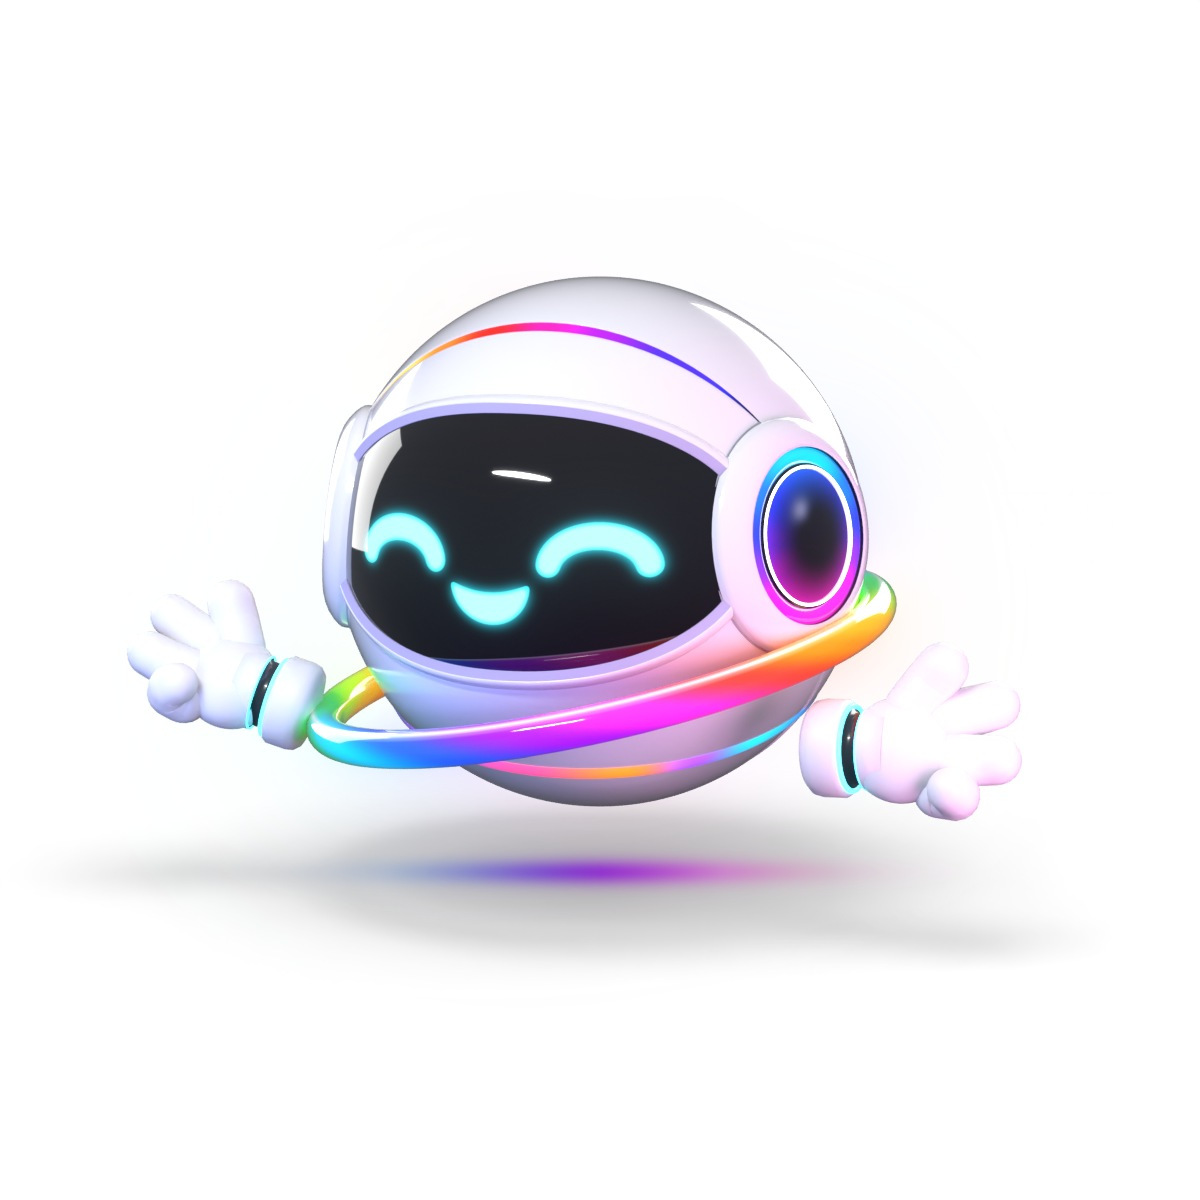
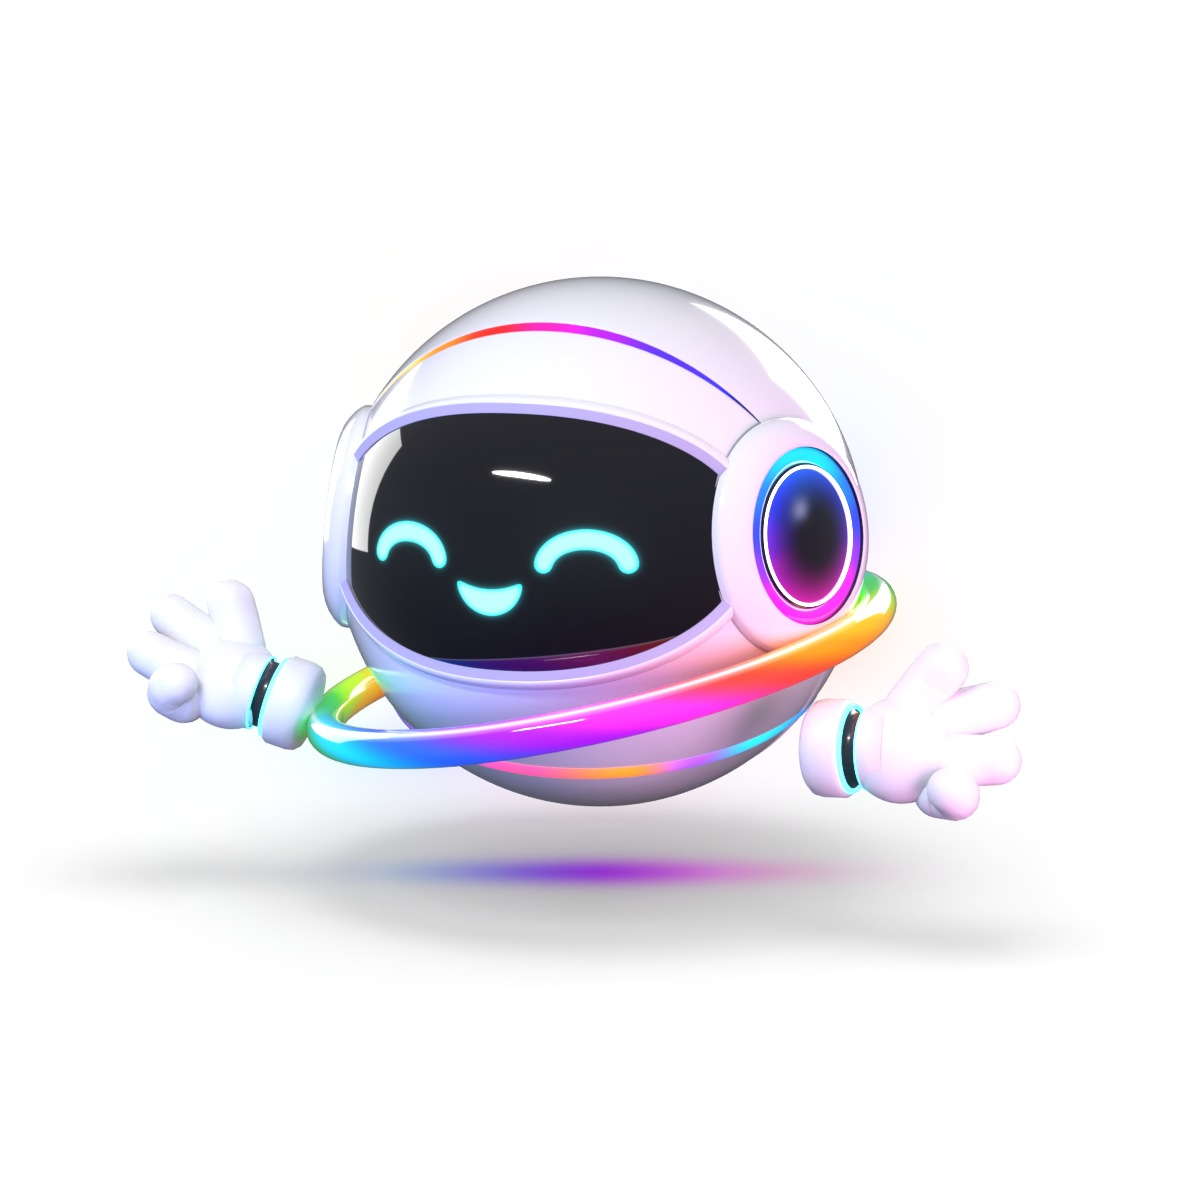
Character version 3: smaller face, thinner strokes, sharper edges
The eyes and smile are about 15% smaller, the eye strokes are thinner,
the edges are crisper and the glow round them is tighter.

Claude-Session: https://claude.ai/code/session_011BdSE2fEeiEv9ZgoYmWAPn

Changed region(s): [[0.2775, 0.4008, 0.5858, 0.5242]]

diff --git a/design/hero/character/v3/build.py b/design/hero/character/v3/build.py
@@ -412,8 +412,8 @@ def face_image(kind, blush=False):
         (a, b), (c, e) = P(x - w / 2, z + h / 2), P(x + w / 2, z - h / 2); d.rounded_rectangle((a, b, c, e), radius=r * PX * SS, outline=255, width=round(width * PX * SS))
     EX, EZ = 0.345, 0.125
     if kind == 'happy':
-        for sx in (-1, 1): arc(sx * 0.375, 0.03, 0.162, 0.115, 6, 174, 0.092, taper=0.1)   # wide, round arches, even thickness, fat round ends   # round arcs, even thickness, fat round ends that come well down
-        smile(0, -0.025, 0.3, 0.15, sag=0.035)                                                  # just under the eyes' ends
+        for sx in (-1, 1): arc(sx * 0.335, 0.035, 0.138, 0.098, 6, 174, 0.07, taper=0.1)   # wide, round arches, even thickness, fat round ends   # round arcs, even thickness, fat round ends that come well down
+        smile(0, -0.018, 0.25, 0.125, sag=0.03)                                                  # just under the eyes' ends
     elif kind == 'thinking':
         disc(-0.29, EZ, 0.075); disc(0.29, EZ, 0.075)
         arc(-0.31, EZ + 0.06, 0.11, 0.06, 70, 130, 0.035); arc(0.29, EZ + 0.08, 0.1, 0.07, 30, 150, 0.035)
@@ -439,8 +439,8 @@ def face_image(kind, blush=False):
                     x, z = cx + gx * 0.015 + (0.0075 if gz % 2 else 0), cz + gz * 0.013
                     if ((x - cx) / 0.085) ** 2 + ((z - cz) / 0.055) ** 2 <= 1: disc(x, z, 0.0042, fill=150)
     im = im.resize((TW, TH), Image.LANCZOS)
-    im = im.filter(ImageFilter.GaussianBlur(7)).point(lambda v: 255 if v > 127 else 0).filter(ImageFilter.GaussianBlur(1.3))   # every corner softly rounded
-    core = im.filter(ImageFilter.GaussianBlur(9)).point(lambda v: 255 if v > 200 else int(v * v / 200 / 1.3)).filter(ImageFilter.GaussianBlur(4)); glow = im.filter(ImageFilter.GaussianBlur(22)).point(lambda v: min(255, int(v * 1.4)))   # a soft, wide glow round the face
+    im = im.filter(ImageFilter.GaussianBlur(7)).point(lambda v: 255 if v > 127 else 0).filter(ImageFilter.GaussianBlur(0.7))   # every corner softly rounded
+    core = im.filter(ImageFilter.GaussianBlur(9)).point(lambda v: 255 if v > 200 else int(v * v / 200 / 1.3)).filter(ImageFilter.GaussianBlur(4)); glow = im.filter(ImageFilter.GaussianBlur(13)).point(lambda v: min(255, int(v * 0.95)))   # a soft, wide glow round the face
     CY = (20, 225, 255)
     layers = [Image.merge('RGB', [m.point(lambda v, k=k: int(v * k / 255)) for k in c]) for m, c in ((glow, CY), (im, CY), (core, (150, 30, 0)))]
     out = ImageChops.add(ImageChops.add(layers[0], layers[1]), layers[2])
